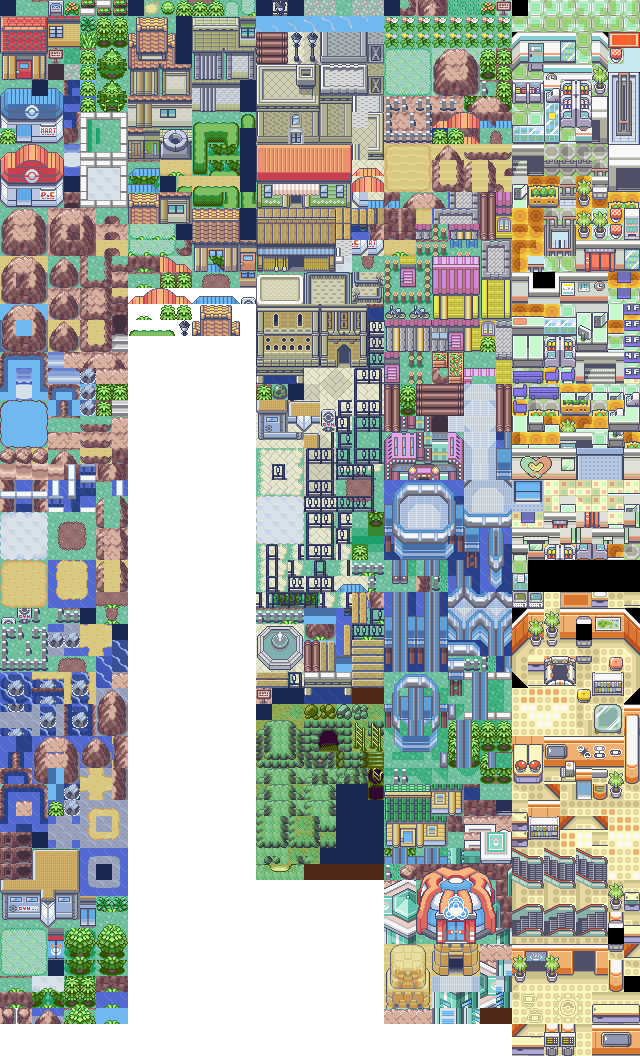
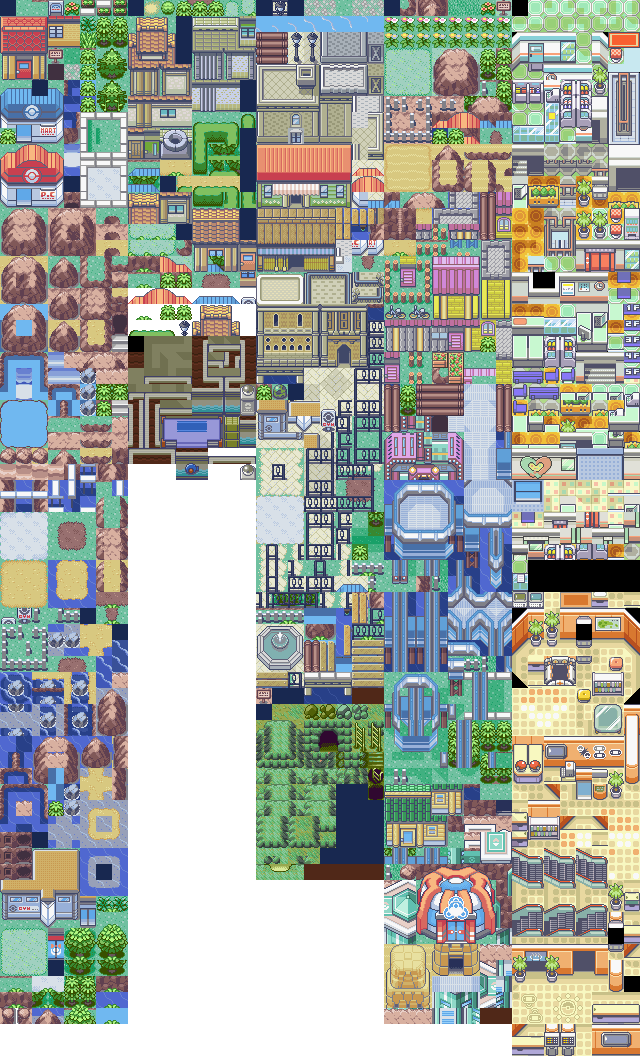
extend map
+a gym is not addet
+more small bugs whit npc

Changed region(s): [[0.1875, 0.3125, 0.4062, 0.4688]]

diff --git a/site/Map/gym_01.js b/site/Map/gym_01.js
@@ -1,0 +1,51 @@
+(function(name,data){
+ if(typeof onTileMapLoaded === 'undefined') {
+  if(typeof TileMaps === 'undefined') TileMaps = {};
+  TileMaps[name] = data;
+ } else {
+  onTileMapLoaded(name,data);
+ }})("gym_01",
+{ 
+    "height":28,
+    "layers":[
+        {
+        "data":[1129, 1130, 1130, 1130, 1130, 1130, 1130, 1130, 1130, 1130, 1130, 1130, 1130, 1130, 1130, 1130, 1130, 1131, 1010, 973, 973, 1132, 1133, 973, 973, 856, 889, 853, 973, 856, 889, 889, 853, 973, 856, 893, 1050, 1055, 1013, 1172, 1173, 1013, 1055, 896, 889, 893, 1013, 975, 856, 889, 893, 1013, 896, 893, 1050, 1095, 1051, 1052, 1053, 1054, 1095, 975, 973, 974, 850, 1015, 975, 856, 893, 850, 896, 893, 1050, 850, 1091, 1092, 1093, 1094, 851, 1015, 1013, 1014, 890, 892, 1015, 975, 974, 890, 896, 893, 1090, 972, 929, 929, 929, 929, 935, 855, 1011, 1011, 931, 934, 892, 1015, 1014, 890, 896, 893, 896, 933, 1012, 971, 971, 971, 895, 973, 973, 973, 973, 974, 891, 892, 930, 931, 936, 893, 896, 853, 973, 856, 889, 889, 893, 1013, 1013, 1013, 1013, 1014, 890, 929, 896, 853, 973, 1009, 1010, 974, 1013, 975, 973, 856, 933, 1011, 932, 851, 930, 932, 852, 935, 936, 893, 1013, 1049, 1050, 1014, 850, 1015, 1013, 896, 889, 889, 893, 891, 896, 893, 891, 896, 889, 893, 850, 1049, 1050, 850, 852, 854, 1011, 936, 889, 889, 893, 890, 896, 893, 890, 1010, 973, 974, 890, 1049, 1090, 972, 929, 896, 889, 889, 853, 973, 974, 890, 896, 893, 890, 1050, 1013, 1014, 890, 1049, 896, 893, 891, 896, 853, 973, 974, 1013, 1014, 890, 975, 974, 890, 1090, 1011, 932, 852, 1049, 1010, 974, 890, 896, 893, 1013, 1014, 850, 851, 852, 1015, 1014, 890, 896, 889, 893, 891, 1049, 1050, 1014, 890, 975, 974, 850, 930, 931, 971, 934, 892, 851, 852, 896, 889, 893, 890, 1049, 1050, 850, 852, 1015, 1014, 890, 896, 889, 889, 933, 894, 929, 935, 936, 889, 893, 890, 1049, 1050, 890, 929, 854, 1011, 931, 936, 853, 973, 856, 893, 891, 896, 853, 973, 974, 890, 1049, 1090, 972, 929, 896, 889, 889, 889, 893, 1013, 896, 893, 890, 975, 974, 1013, 1014, 890, 1049, 896, 933, 1012, 936, 889, 889, 889, 893, 850, 896, 893, 890, 1015, 1014, 850, 851, 969, 1089, 896, 853, 973, 856, 889, 889, 889, 893, 890, 975, 974, 890, 892, 930, 931, 971, 936, 893, 896, 893, 1013, 975, 973, 973, 973, 974, 890, 1015, 1014, 890, 929, 975, 973, 973, 856, 893, 896, 893, 850, 1015, 1013, 1013, 1013, 1014, 890, 892, 851, 852, 929, 1015, 1013, 1013, 896, 893, 896, 933, 972, 892, 851, 851, 851, 851, 969, 971, 971, 934, 929, 854, 1011, 1011, 936, 893, 896, 889, 933, 894, 976, 929, 929, 976, 896, 889, 889, 893, 891, 896, 889, 889, 889, 893, 896, 889, 889, 893, 1016, 891, 929, 1016, 896, 889, 889, 893, 890, 896, 889, 889, 889, 893, 896, 889, 889, 933, 932, 852, 929, 854, 936, 889, 889, 933, 931, 936, 889, 889, 889, 893, 975, 973, 973, 973, 974, 929, 929, 975, 973, 973, 973, 973, 973, 973, 973, 973, 973, 974, 1015, 1013, 1013, 1013, 1014, 929, 929, 1015, 1013, 1013, 1013, 1013, 1013, 1013, 1013, 1013, 1013, 1014],
+        "name":"gym_01",
+        "firstgid":1
+         }, 
+        {
+         "data":[0, 0, 0, 0, 0, 0, 0, 0, 0, 0, 0, 0, 0, 0, 0, 0, 0, 0, 0, 0, 0, 0, 0, 0, 0, 0, 0, 0, 0, 0, 0, 0, 0, 0, 0, 0, 0, 0, 0, 0, 0, 0, 0, 0, 0, 0, 0, 0, 0, 0, 0, 0, 0, 0, 0, 0, 0, 0, 0, 0, 0, 0, 0, 0, 0, 0, 0, 0, 0, 0, 0, 0, 0, 0, 0, 0, 0, 0, 0, 0, 0, 0, 0, 0, 0, 0, 0, 0, 0, 0, 0, 1136, 0, 0, 0, 0, 1134, 1135, 1135, 1135, 1135, 1136, 0, 0, 0, 0, 0, 0, 0, 0, 1135, 1135, 1135, 1135, 0, 0, 0, 0, 0, 0, 0, 0, 1134, 1135, 0, 0, 0, 0, 0, 0, 0, 0, 0, 0, 0, 0, 0, 0, 0, 0, 0, 0, 0, 0, 0, 0, 0, 0, 0, 0, 0, 1135, 1136, 0, 1134, 1136, 0, 1134, 0, 0, 0, 0, 0, 0, 0, 0, 0, 0, 0, 0, 0, 0, 0, 0, 0, 0, 0, 0, 0, 0, 0, 0, 0, 1134, 1135, 0, 0, 0, 0, 0, 0, 0, 0, 0, 0, 0, 0, 0, 0, 1136, 0, 0, 0, 0, 0, 0, 0, 0, 0, 0, 0, 0, 0, 0, 0, 0, 0, 0, 0, 0, 0, 0, 0, 0, 0, 0, 0, 0, 0, 0, 1135, 1136, 0, 0, 0, 0, 0, 0, 0, 0, 0, 0, 0, 0, 0, 0, 0, 0, 0, 0, 0, 0, 0, 0, 0, 0, 0, 0, 1134, 1135, 1135, 1136, 0, 0, 0, 0, 0, 0, 0, 0, 0, 0, 0, 0, 0, 0, 0, 0, 0, 0, 1136, 0, 1134, 0, 0, 0, 0, 0, 0, 0, 0, 1134, 1135, 1135, 0, 0, 0, 0, 0, 0, 0, 0, 0, 0, 0, 0, 0, 1136, 0, 0, 0, 0, 0, 0, 0, 0, 0, 0, 0, 0, 0, 0, 0, 0, 0, 0, 0, 0, 0, 0, 0, 0, 0, 0, 0, 0, 0, 0, 0, 0, 1134, 0, 0, 0, 0, 0, 0, 0, 0, 0, 0, 0, 0, 0, 0, 1134, 1135, 1135, 0, 0, 0, 0, 0, 0, 0, 0, 0, 0, 0, 0, 0, 0, 0, 0, 0, 0, 0, 0, 0, 0, 0, 0, 0, 0, 0, 0, 0, 0, 0, 0, 0, 0, 0, 0, 0, 0, 0, 0, 1136, 0, 0, 0, 0, 0, 1134, 1135, 1135, 1136, 0, 1134, 1135, 1135, 0, 0, 0, 0, 0, 1136, 1176, 0, 0, 1176, 0, 0, 0, 0, 0, 0, 0, 0, 0, 0, 0, 0, 0, 0, 0, 0, 0, 0, 0, 0, 0, 0, 0, 0, 0, 0, 0, 0, 0, 0, 0, 0, 1136, 0, 0, 1134, 0, 0, 0, 0, 1135, 0, 0, 0, 0, 0, 0, 0, 0, 0, 0, 0, 0, 0, 0, 0, 0, 0, 0, 0, 0, 0, 0, 0, 0, 0, 0, 0, 0, 0, 0, 0, 0, 0, 0, 0, 0, 0, 0, 0, 0, 0],
+         "name":"top",
+         "firstgid":1
+         }, 
+        {
+         "data":[2642, 2642, 2642, 2642, 2642, 2642, 2642, 2642, 2642, 2642, 2642, 2642, 2642, 2642, 2642, 2642, 2642, 2642, 2642, 2642, 2642, 2642, 2642, 2642, 2642, 2642, 2642, 2642, 2642, 2642, 2642, 2642, 2642, 2642, 2642, 2642, 2642, 2642, 2642, 2642, 2642, 2642, 2642, 2642, 2642, 2642, 2642, 2642, 2642, 2642, 2642, 2642, 2642, 2642, 2642, 2642, 2643, 2643, 2643, 2643, 2642, 2642, 2642, 2642, 2643, 2642, 2642, 2642, 2642, 2643, 2642, 2642, 2642, 2643, 2643, 2643, 2643, 2643, 2643, 2642, 2642, 2642, 2643, 2643, 2642, 2642, 2642, 2643, 2642, 2642, 2642, 2643, 2643, 2643, 2643, 2643, 2643, 2643, 2643, 2643, 2643, 2643, 2643, 2642, 2642, 2643, 2642, 2642, 2642, 2642, 2643, 2643, 2643, 2643, 2642, 2642, 2642, 2642, 2642, 2642, 2643, 2643, 2643, 2643, 2642, 2642, 2642, 2642, 2642, 2642, 2642, 2642, 2642, 2642, 2642, 2642, 2642, 2642, 2643, 2643, 2642, 2642, 2642, 2642, 2642, 2642, 2642, 2642, 2642, 2642, 2642, 2643, 2643, 2643, 2643, 2643, 2643, 2643, 2642, 2642, 2642, 2642, 2642, 2642, 2643, 2642, 2642, 2642, 2642, 2642, 2642, 2643, 2642, 2642, 2643, 2642, 2642, 2642, 2643, 2642, 2642, 2643, 2643, 2643, 2643, 2642, 2642, 2642, 2642, 2643, 2642, 2642, 2643, 2642, 2642, 2642, 2643, 2642, 2642, 2643, 2643, 2642, 2642, 2642, 2642, 2642, 2642, 2643, 2642, 2642, 2643, 2642, 2642, 2642, 2643, 2642, 2642, 2642, 2643, 2642, 2642, 2642, 2642, 2642, 2642, 2643, 2642, 2642, 2643, 2642, 2643, 2643, 2643, 2642, 2642, 2642, 2643, 2642, 2642, 2642, 2642, 2643, 2643, 2643, 2642, 2642, 2643, 2642, 2642, 2642, 2643, 2642, 2642, 2642, 2643, 2642, 2642, 2643, 2643, 2643, 2643, 2643, 2643, 2643, 2643, 2642, 2642, 2642, 2643, 2642, 2642, 2643, 2643, 2642, 2642, 2643, 2642, 2642, 2642, 2642, 2643, 2643, 2643, 2642, 2642, 2642, 2643, 2642, 2642, 2643, 2643, 2643, 2643, 2643, 2642, 2642, 2642, 2642, 2642, 2643, 2642, 2642, 2642, 2642, 2643, 2642, 2642, 2643, 2643, 2642, 2642, 2642, 2642, 2642, 2642, 2642, 2642, 2643, 2642, 2642, 2642, 2642, 2643, 2642, 2642, 2642, 2643, 2642, 2642, 2642, 2642, 2642, 2643, 2642, 2642, 2643, 2642, 2642, 2643, 2643, 2643, 2642, 2642, 2642, 2642, 2642, 2642, 2642, 2642, 2642, 2643, 2642, 2642, 2643, 2643, 2643, 2643, 2643, 2642, 2642, 2642, 2642, 2642, 2642, 2642, 2642, 2642, 2642, 2643, 2642, 2642, 2643, 2643, 2642, 2642, 2642, 2642, 2642, 2642, 2642, 2643, 2642, 2642, 2642, 2642, 2642, 2643, 2643, 2643, 2643, 2643, 2642, 2642, 2642, 2642, 2642, 2642, 2642, 2643, 2643, 2643, 2643, 2643, 2643, 2643, 2643, 2643, 2643, 2643, 2643, 2643, 2643, 2642, 2642, 2642, 2642, 2642, 2643, 2643, 2643, 2643, 2643, 2642, 2642, 2642, 2642, 2643, 2642, 2642, 2642, 2642, 2642, 2642, 2642, 2642, 2642, 2642, 2643, 2643, 2642, 2642, 2642, 2642, 2642, 2643, 2642, 2642, 2642, 2642, 2642, 2642, 2642, 2642, 2642, 2643, 2643, 2643, 2643, 2642, 2642, 2642, 2642, 2643, 2642, 2642, 2642, 2642, 2642, 2642, 2642, 2642, 2642, 2642, 2643, 2643, 2642, 2642, 2642, 2642, 2642, 2642, 2642, 2642, 2642, 2642, 2642, 2642, 2642, 2642, 2642, 2642, 2643, 2643, 2642, 2642, 2642, 2642, 2642, 2642, 2642, 2642, 2642, 2642, 2642],
+         "name":"collision",
+         "firstgid":2641
+         }],
+    "tilesets":{
+        "imageheight":1056,
+        "imagewidth":640,
+        "width" : 40,
+        "height": 66,
+        "tileheight":16,
+        "tilewidth":16
+    },
+    "start":{
+        "x": 5,
+        "y": 26
+    },
+    "events": {
+        "sign":{
+
+        },
+        "warp":{
+
+        },
+        "teleport": {
+            "5_27" : {"map":"fullMap", "poss": {"x": 27, "y": 20}},
+            "6_27" : {"map":"fullMap", "poss": {"x": 27, "y": 20}}
+        }
+    },
+ "width":18
+});

diff --git a/site/NpcData.js b/site/NpcData.js
@@ -1,5 +1,6 @@
 var NpcData = {
 	"npcs": [
+	//fullMap
 		{
 			"name": "lasse",
 			"movment": {
@@ -7,7 +8,8 @@ var NpcData = {
 				"radius": 2,
 				"start": {
 					"x": 20,
-					"y": 21
+					"y": 21,
+					"looking": 0
 				}
 			},
 			"image":{
@@ -23,11 +25,12 @@ var NpcData = {
 		{
 			"name": "the Master",
 			"movment": {
-				"type": "standing",
+				"type": "moving",
 				"radius": 4,
 				"start": {
 					"x": 23,
-					"y": 39
+					"y": 39,
+					"looking": 0
 				}
 			},
 			"image":{
@@ -49,7 +52,8 @@ var NpcData = {
 				"radius": 4,
 				"start": {
 					"x": 64,
-					"y": 13
+					"y": 13,
+					"looking": 0
 				}
 			},
 			"image":{
@@ -61,6 +65,52 @@ var NpcData = {
 				"you will soon be able to fight me!",
 				"just whait for the up",
 				"where he make it ;)"
+			]
+		},
+		//pokaHeal
+		{
+			"name": "pokemon center",
+			"movment": {
+				"type": "standing",
+				"radius": 1,
+				"start": {
+					"x": 7,
+					"y": 2,
+					"looking": 0
+				}
+			},
+			"image":{
+				"x": 3,
+				"y": 0
+			},
+			"map": "pokaHeal",
+			"text": [
+				"text that i will way when talk to",
+				"more text",
+				"more text2"
+			]
+		},
+		//gym_01
+		{
+			"name": "guild master",
+			"movment": {
+				"type": "standing",
+				"radius": 1,
+				"start": {
+					"x": 3,
+					"y": 3,
+					"looking": 0
+				}
+			},
+			"image":{
+				"x": 1,
+				"y": 0
+			},
+			"map": "gym_01",
+			"text": [
+				"I'm the guild master!",
+				"one day",
+				"just one day"
 			]
 		}
 	]

diff --git a/site/Model/Rooms.js b/site/Model/Rooms.js
@@ -1,11 +1,9 @@
 function Rooms () {
 	this.container = [];
 	this.load = function () {
-		this.container.push(new Map(TileMaps.fullMap));
-		this.container.push(new Map(TileMaps.store));
-		this.container.push(new Map(TileMaps.pokaHeal));
-		this.container.push(new Map(TileMaps.pokaHeal_02));
-		this.container.push(new Map(TileMaps.mine_01));
+		for (var key in TileMaps) {
+			this.container.push(new Map(TileMaps[key]));
+		};
 	}
 	this.find = function (name) {
 		for (var i = 0; i < this.container.length; i++) {

diff --git a/site/Map/fullMap.js b/site/Map/fullMap.js
@@ -184,7 +184,8 @@
     		"16_46" : {"map":"store", "poss": null},
     		"87_8" : {"map":"mine_01", "poss": {"x": 4, "y": 10}},
     		"105_10" : {"map":"mine_01", "poss": {"x": 18, "y": 20}},
-    		"128_21" : {"map":"mine_01", "poss": {"x": 29, "y": 16}},    		
+    		"128_21" : {"map":"mine_01", "poss": {"x": 29, "y": 16}},
+   			"27_19" : {"map":"gym_01", "poss": null}
     	}
     },
  "width":144

diff --git a/site/Model/NpcContainer.js b/site/Model/NpcContainer.js
@@ -38,7 +38,7 @@ function NpcContainer () {
 	}
 	this.isNpc = function (x, y) {
 		for (var i = 0; i < this.container.length; i++) {
-			if(this.container[i].x == x && this.container[i].y == y) {
+			if(this.container[i].x == x && this.container[i].y == y && this.container[i].map == World.map.name) {
 				return this.container[i];
 			}  
 		};

diff --git a/site/index.html b/site/index.html
@@ -21,6 +21,7 @@
 	<script src="Map/pokaHeal_02.js"></script>
 	<script src="Map/fullMap.js"></script>
 	<script src="Map/mine_01.js"></script>
+	<script src="Map/gym_01.js"></script>
 	<!-- static -->
 	<script src="Model/Tile.js"></script>
 	<script src="Model/Window.js"></script>

diff --git a/site/Model/npc.js b/site/Model/npc.js
@@ -8,7 +8,7 @@ function Npc (data, image) {
 
 	this.lastMoved = new Date().getTime();
 	this.imageMovingIndex = 0;
-	this.looking = 0;
+	this.looking = this.movment.start.looking;
 	this.canMove = true;
 	this.image = image;
 	this.imagePoss = data.image;
